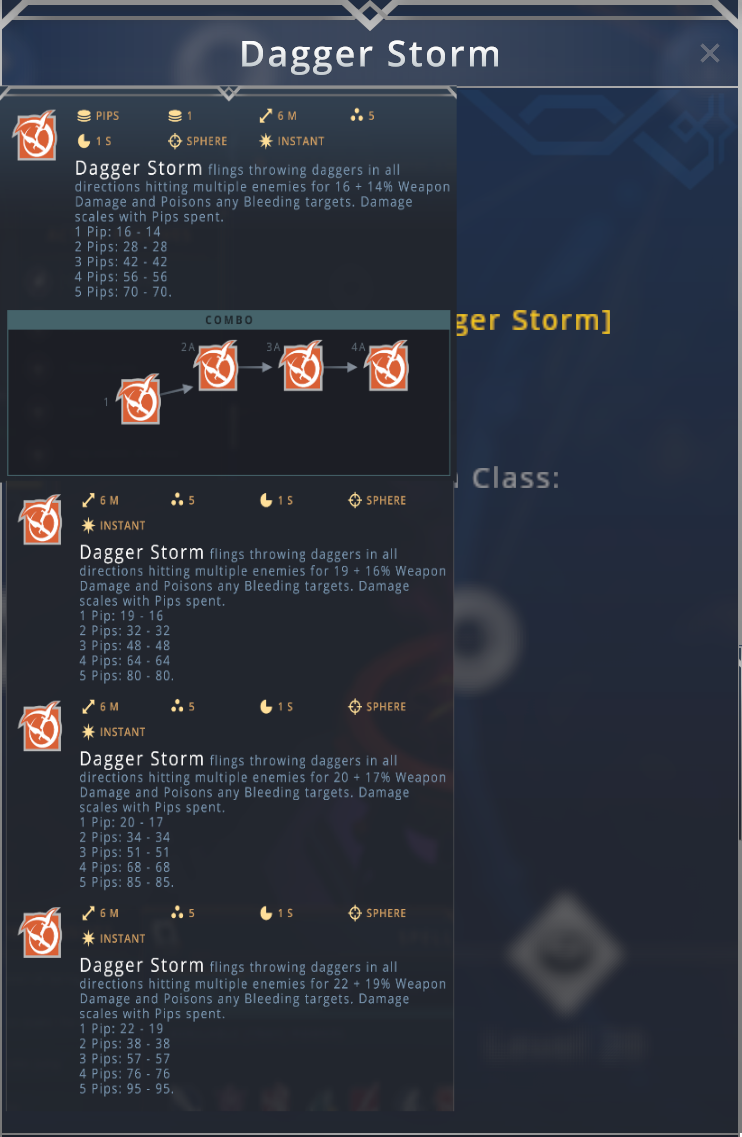
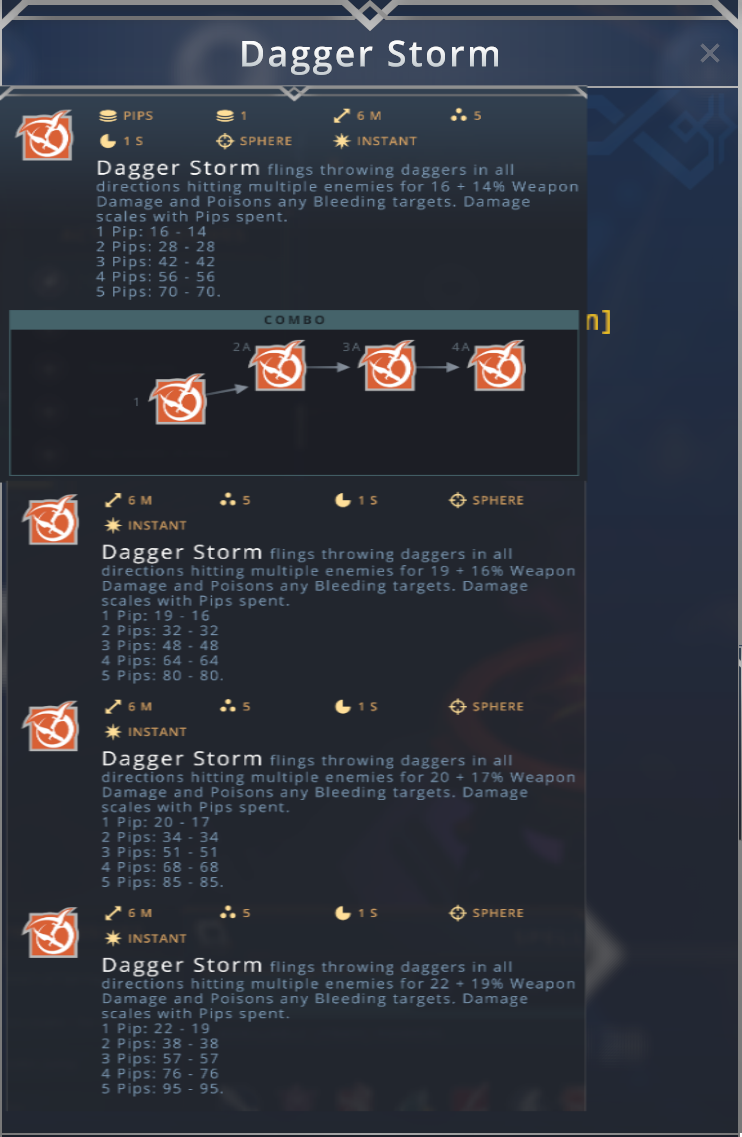
add hover

Changed region(s): [[0.0, 0.0616, 0.8059, 0.985], [0.0, 0.277, 0.031, 0.4002]]

diff --git a/static/js/talent.js b/static/js/talent.js
@@ -63,16 +63,14 @@ class TalentContainer extends HTMLElement {
                     //background-color:green;
                 }
                 #reset{
-                    bottom : 1%;
-                    left: 1%;
-                    position: absolute;
                     background-color:red;
                     padding: 1%;
                     font-size: 2vw;
                     z-index: 100;
+                    width: 10%
                 }
                 #nb-container{
-                    bottom : 10%;
+                    bottom : 0;
                     left: 0;
                     font-size:2vw;
                     padding : 1%;
@@ -87,6 +85,23 @@ class TalentContainer extends HTMLElement {
                     top : 0;
                     left: 0;
                     position: absolute;
+                }
+                .desc{
+                    position: absolute;
+                    top:0;
+                    height:100%;
+                    width:33%;
+                    z-index: 2;
+                    display: none;
+                }
+                #desc-left{
+                    left:0
+                }
+                #desc-right{
+                    right:0
+                }
+                .desc.dis{
+                    display: block;
                 }
 
                 #st {
@@ -378,7 +393,6 @@ class TalentContainer extends HTMLElement {
                     <img class="classicone ${isTemplar}" tag="templar" src="/img/talent/templar/icone.png"/>
                 </div>
                 <div id="parent">
-                    <div id="reset">reset</div>
                     <div id="nb-container"><span id="nb">0</span> / 15</div>
                     <img src="/img/talent/base.png" />
                     <div class="button" id="st"></div>
@@ -423,16 +437,24 @@ class TalentContainer extends HTMLElement {
 
                     <div id="other">
                     </div>
+                    <img id="desc-left" class="desc" />
+                    <img id="desc-right"  class="desc" />
+                    </div>
                 </div>
+                <div id="reset">reset</div>
             <div>
         `
 
         this._other = this.shadowRoot.querySelector("#other");
         this._nb = this.shadowRoot.querySelector("#nb");
+        this._desc_left = this.shadowRoot.querySelector("#desc-left");
+        this._desc_right = this.shadowRoot.querySelector("#desc-right");
 
         var buttonList = this.shadowRoot.querySelectorAll(".button")
         for (var i = 0; i < buttonList.length; i++) {
             buttonList[i].addEventListener('click', this._click.bind(this));
+            buttonList[i].addEventListener('mouseenter', this._mouse_enter.bind(this));
+            buttonList[i].addEventListener('mouseleave', this._mouse_leave.bind(this));
         }
 
         this.shadowRoot.querySelector("#reset").addEventListener('click', this._reset.bind(this));
@@ -471,6 +493,28 @@ class TalentContainer extends HTMLElement {
 
 
         this._display();
+    }
+
+    _mouse_enter(event){
+
+        if( this._class == ""){
+            return
+        }
+
+        const id = event.target.id
+
+        if ( id == "st" || id <= "f2"){
+            this._desc_right.src = `/img/talent/${this._class}/desc/${id}.png`
+            this._desc_right.classList.add("dis")
+        }else{
+            this._desc_left.src = `/img/talent/${this._class}/desc/${id}.png`
+            this._desc_left.classList.add("dis")
+        }
+
+    }
+    _mouse_leave(event){
+        this._desc_right.classList.remove("dis")
+        this._desc_left.classList.remove("dis")
     }
 
     _click(event){
